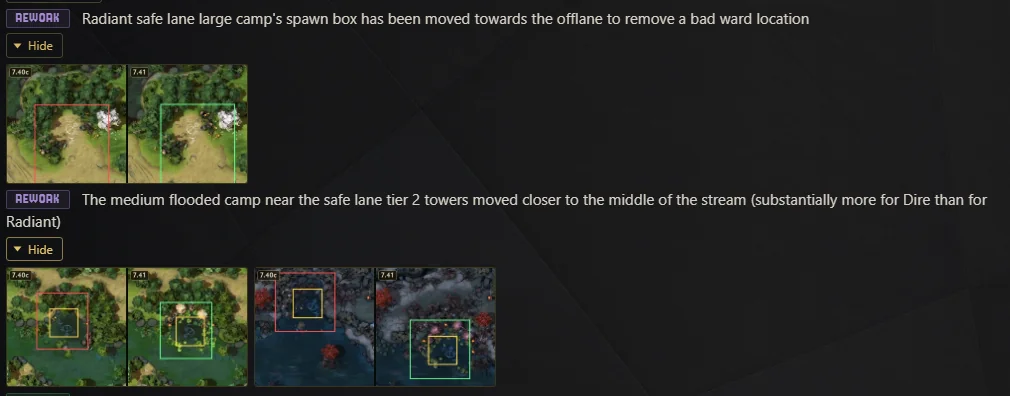
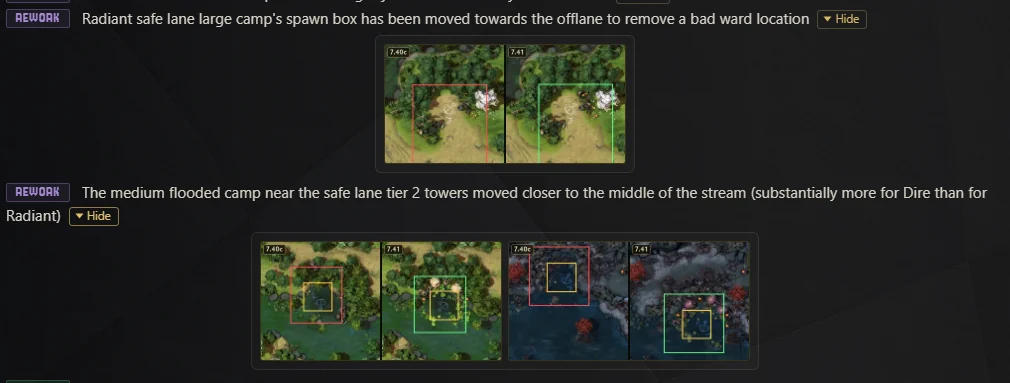
feat(terrain): 'Show' at the end of a note's line, pictures in a centred rounded box
The button hangs on the note's last word (an INLINETIP, like the (?)); the
pictures open below in their own box framed like the item ability cards.

diff --git a/styles.css b/styles.css
@@ -4240,25 +4240,27 @@ ul.changes {
 }
 /* A terrain note's micro-screenshots (patch/elements.py terrain_shots_html): old | new map around the change, only
    the note's objects outlined; a full-width row of the li's grid under the text (the owner 2026-10-03: terrain rows
-   were "all under one tag, mush"). They wait under "Show where"; a click on a picture opens its large copy
-   (scripts.js "Terrain note pictures"). */
-ul.changes li > .tshots-wrap {
-  grid-column: 1 / -1; display: flex; flex-direction: column; align-items: flex-start; gap: 6px; margin: 4px 0 2px;
-}
+   were "all under one tag, mush"). "Show" sits at the end of the note's text (the owner 2026-10-03: "at the end of
+   the line, not on a new line"); the pictures open below in their own rounded box, centred, framed like the item
+   ability cards; a click on a picture opens its large copy (scripts.js "Terrain note pictures"). */
 .tshots-btn {
-  position: relative; padding: 4px 9px 4px 21px; font: inherit; font-size: 12px; line-height: 1.2;
-  color: var(--gold-dim); background: transparent; border: 1px solid rgba(227, 196, 106, 0.28); border-radius: 3px;
-  cursor: pointer; transition: color 0.15s ease, border-color 0.15s ease;
+  position: relative; margin-left: 8px; padding: 1px 7px 1px 17px; font: inherit; font-size: 11.5px;
+  line-height: 1.3; vertical-align: 1px; color: var(--gold-dim); background: transparent;
+  border: 1px solid rgba(227, 196, 106, 0.28); border-radius: 3px; cursor: pointer;
+  transition: color 0.15s ease, border-color 0.15s ease;
 }
 .tshots-btn::before {
-  content: ""; position: absolute; left: 8px; top: 50%; border-left: 5px solid currentColor;
+  content: ""; position: absolute; left: 7px; top: 50%; border-left: 5px solid currentColor;
   border-top: 4px solid transparent; border-bottom: 4px solid transparent;
   transform: translateY(-50%); transition: transform 0.15s ease;
 }
 .tshots-btn[aria-expanded="true"]::before { transform: translateY(-50%) rotate(90deg); }
 .tshots-btn:hover, .tshots-btn:focus-visible { color: var(--gold); border-color: rgba(227, 196, 106, 0.6); }
-.tshots { display: flex; flex-wrap: wrap; gap: 6px; }
-.tshots[hidden] { display: none; }
+ul.changes li > .tshots {
+  grid-column: 1 / -1; justify-self: center; display: flex; flex-wrap: wrap; justify-content: center; gap: 6px;
+  margin: 6px 0 6px; padding: 8px; background: var(--muted-04); border: 1px solid var(--line-soft); border-radius: 6px;
+}
+ul.changes li > .tshots[hidden] { display: none; }
 .tshots img {
   width: 242px; height: 120px; border-radius: 3px; border: 1px solid rgba(227, 196, 106, 0.22);
   background: #080b06; cursor: zoom-in; transition: border-color 0.15s ease;

diff --git a/src/scripts.js b/src/scripts.js
@@ -7258,8 +7258,8 @@ function ecShopMarkup(panels) {
 })();
 
 // ---------------------------------------------------------------------
-// Terrain note pictures (patch pages + Terrain pages, patch/elements.py terrain_shots_html): "Show where" opens a
-// note's old | new micro-screenshots (hidden until then, so they load on demand); a click on one opens its large copy
+// Terrain note pictures (patch pages + Terrain pages, patch/elements.py terrain_shots_html): "Show" at the end of a
+// note opens its old | new micro-screenshots below (hidden until then, so they load on demand); a click on one opens its large copy
 // (data-large) over the page — Esc or a click closes it (the owner 2026-10-03: "the picture grows in quality, it
 // doesn't take you to Terrain"). Delegated, one listener for every note.
 // ---------------------------------------------------------------------
@@ -7280,10 +7280,11 @@ function ecShopMarkup(panels) {
   document.addEventListener('click', function(ev) {
     const btn = ev.target.closest && ev.target.closest('.tshots-btn');
     if (btn) {
-      const pics = btn.nextElementSibling;
+      const row = btn.closest('li');
+      const pics = row && row.querySelector(':scope > .tshots');
       const open = btn.getAttribute('aria-expanded') !== 'true';
       btn.setAttribute('aria-expanded', open ? 'true' : 'false');
-      btn.textContent = open ? 'Hide' : 'Show where';
+      btn.textContent = open ? 'Hide' : 'Show';
       if (pics) pics.hidden = !open;
       return;
     }

diff --git a/tests/test_terrain_steps.py b/tests/test_terrain_steps.py
@@ -351,17 +351,28 @@ def test_the_slider_writes_clip_paths_not_an_inherited_property():
 
 def test_a_terrain_note_shows_its_micro_screenshots():
     """The owner 2026-10-03: terrain rows were "all under one tag, mush — maybe micro-screenshots". A row matched in
-    data/terrain_spots.json carries its old | new pictures under a "Show where" button (hidden until pressed, no link
+    data/terrain_spots.json carries its old | new pictures under a "Show" button (hidden until pressed, no link
     to the Terrain page — "View on map" is for that); a click opens the large copy; every picture exists twice."""
     from patch.elements import terrain_shots_html, _terrain_spot_index
     row = "The tier 1 safe lane towers have been moved slightly away from their pull camps and where the creeps meet"
     html = terrain_shots_html("7.41", row)
-    assert html.startswith('<span class="tshots-wrap"><button type="button" class="tshots-btn" aria-expanded="false">'
-                           'Show where</button><span class="tshots" hidden>')
+    assert html.startswith('<!--INLINETIP--><button type="button" class="tshots-btn" aria-expanded="false">Show'
+                           '</button><!--/INLINETIP--><span class="tshots" hidden>')
     assert html.count("<img") == 2 and "<a " not in html and 'data-large="../icons/terrain/741_' in html
     assert terrain_shots_html("7.41", "Some row no spot matches") == ""
     li = terrain._change_li(row, "REWORK", None, "7.41")
-    assert '<img src="icons/terrain/741_' in li and 'data-large="icons/terrain/741_' in li and "<a " not in li
+    # "Show" hangs on the row's last word (the owner: "at the end of the line"), the pictures follow the text
+    assert '<span class="li-tail">meet<button type="button" class="tshots-btn"' in li
+    assert '</span></span><span class="tshots" hidden><img src="icons/terrain/741_' in li and "<a " not in li
+    from patch import elements
+    saved = elements._State.current_patch_version
+    elements._State.current_patch_version = "7.41"
+    try:
+        page_li = elements.li(row, '<span class="badge rework" data-tag="rework">REWORK</span>')
+    finally:
+        elements._State.current_patch_version = saved
+    assert 'meet<button type="button" class="tshots-btn"' in page_li
+    assert page_li.index('class="tshots-btn"') < page_li.index('</span><span class="tshots" hidden>')
     for patch, rows in _terrain_spot_index().items():
         for _match, names in rows:
             for n in names:

diff --git a/patch/elements.py b/patch/elements.py
@@ -2065,9 +2065,10 @@ def _terrain_spot_index():
 def terrain_shots_html(patch, text, prefix="../"):
     """The micro-screenshots of a terrain note (the owner 2026-10-03: the terrain rows were "all under one tag, mush —
     maybe micro-screenshots"): the old | new map squares around the change, only the note's own objects outlined.
-    They wait under a "Show where" button (hidden, so the lazy pictures load only when opened), and a click on one
-    opens its large copy (<name>_lg.webp, data-large) over the page — the section's "View on map" button is the way
-    to the Terrain page (the owner 2026-10-03). '' for any other row."""
+    They wait under a "Show" button at the end of the row's text (an INLINETIP, so li() hangs it on the last word
+    like a (?)), the pictures below in their own rounded, centred box (hidden, so the lazy pictures load only when
+    opened); a click on one opens its large copy (<name>_lg.webp, data-large) over the page — the section's "View
+    on map" button is the way to the Terrain page (the owner 2026-10-03). '' for any other row."""
     if not patch or not isinstance(text, str):
         return ""
     plain = re.sub(r"<[^>]+>", "", text).strip()
@@ -2077,8 +2078,8 @@ def terrain_shots_html(patch, text, prefix="../"):
                 f'<img src="{prefix}icons/terrain/{n}" data-large="{prefix}icons/terrain/{n[:-5]}_lg.webp" '
                 f'width="242" height="120" alt="The old and the new map here" loading="lazy" '
                 f'decoding="async">' for n in names)
-            return ('<span class="tshots-wrap"><button type="button" class="tshots-btn" aria-expanded="false">'
-                    f'Show where</button><span class="tshots" hidden>{imgs}</span></span>')
+            return ('<!--INLINETIP--><button type="button" class="tshots-btn" aria-expanded="false">Show</button>'
+                    f'<!--/INLINETIP--><span class="tshots" hidden>{imgs}</span>')
     return ""
 
 

diff --git a/builders/terrain.py b/builders/terrain.py
@@ -695,11 +695,15 @@ def _change_li(text, tag, note=None, patch=None):
         tags.append("buff")
     elif 'data-overall="nerf"' in overall and "nerf" not in tags:
         tags.append("nerf")
-    if note:
-        # the row's inline note: the (?) popup on its last word, as on the patch page
+    # the row's inline note (?) and its pictures' "Show" button hang on its last word, as on the patch page
+    import re as _re
+    button = "".join(_re.findall(r"<!--INLINETIP-->(.*?)<!--/INLINETIP-->", shots, _re.S))
+    shots = _re.sub(r"<!--INLINETIP-->.*?<!--/INLINETIP-->", "", shots, flags=_re.S)
+    if note or button:
         from patch.elements import info_tip
         head, _sp, last = text.rpartition(" ")
-        text = f'{head}{_sp}<span class="li-tail">{last}{info_tip(note)}</span>'
+        tip = info_tip(note) if note else ""
+        text = f'{head}{_sp}<span class="li-tail">{last}{tip}{button}</span>'
     return (f'<li data-tag="{" ".join(tags)}">{_badge(tag)}'
             f'<span class="row-text">{text}</span>{shots}</li>')
 

diff --git a/scripts/gen/terrain_shots.py b/scripts/gen/terrain_shots.py
@@ -4,7 +4,7 @@ old map, added green on the new one, moved yellow on both, changed spawn boxes r
 
 Why (the owner 2026-10-03): the terrain rows were "all under one tag, mush"; "maybe micro-screenshots, tree
 positions — we know now which tree went where". A row of a patch page / Terrain page whose text starts with a spot's
-"match" shows its pictures under a "Show where" button (patch/elements.py terrain_shots_html, builders/terrain.py).
+"match" ends with a "Show" button that opens its pictures (patch/elements.py terrain_shots_html, builders/terrain.py).
 
 Only the note's own objects are outlined (the owner 2026-10-03: "a camps note shows only the camps, not the trees and
 everything else"): `show_keys` takes the first object word of the note (camp, tree, watcher, tower / tier N, lotus,

diff --git a/docs/terrain.md b/docs/terrain.md
@@ -333,10 +333,12 @@ Tools → Source Filmmaker, `tools/sfm.dll`) renders leamare's look:
   pit, wisdom shrine, outpost); a ground word first (cliff, ramp, stream, path, entrance, areas) → no outlines;
   a spot's `"show": [...]` overrides (3 do: the triangle's cliff + camps, a path cut through trees, the cleared
   Tormentor areas). `patch/elements.py terrain_shots_html` puts them under a matching row — `li()` does it for
-  patch pages, `_change_li` for the Terrain page's own list — folded under a "Show where" button (the owner:
-  "hide them under a button"; `hidden`, so the lazy pictures load only when opened), and a click on a picture
-  opens its large copy (`data-large`) in a lightbox, not the Terrain page ("View on map" in the section header is
-  for that). scripts.js "Terrain note pictures".
+  patch pages, `_change_li` for the Terrain page's own list — folded under a "Show" button at the END of the row's
+  text (an INLINETIP, so it hangs on the last word like a (?); the owner: "hide them under a button", "Show, at the
+  end of the line, not on a new line"); the pictures open below in their own rounded box, centred, framed like the
+  item ability cards (`hidden`, so the lazy pictures load only when opened), and a click on a picture opens its
+  large copy (`data-large`) in a lightbox, not the Terrain page ("View on map" in the section header is for that).
+  scripts.js "Terrain note pictures".
   Not placed: notes the map can't show (watcher rules, camp evolutions, pull timers, fixes) and the doubled 7.38c
   "Several additional tree and visual adjustments". With the shots, the terrain tag canon (docs/agent-rules/
   patch-tags.md): moved / reshaped REWORK, added NEW, removed DEL, demoted NERF, fixes MISC.
